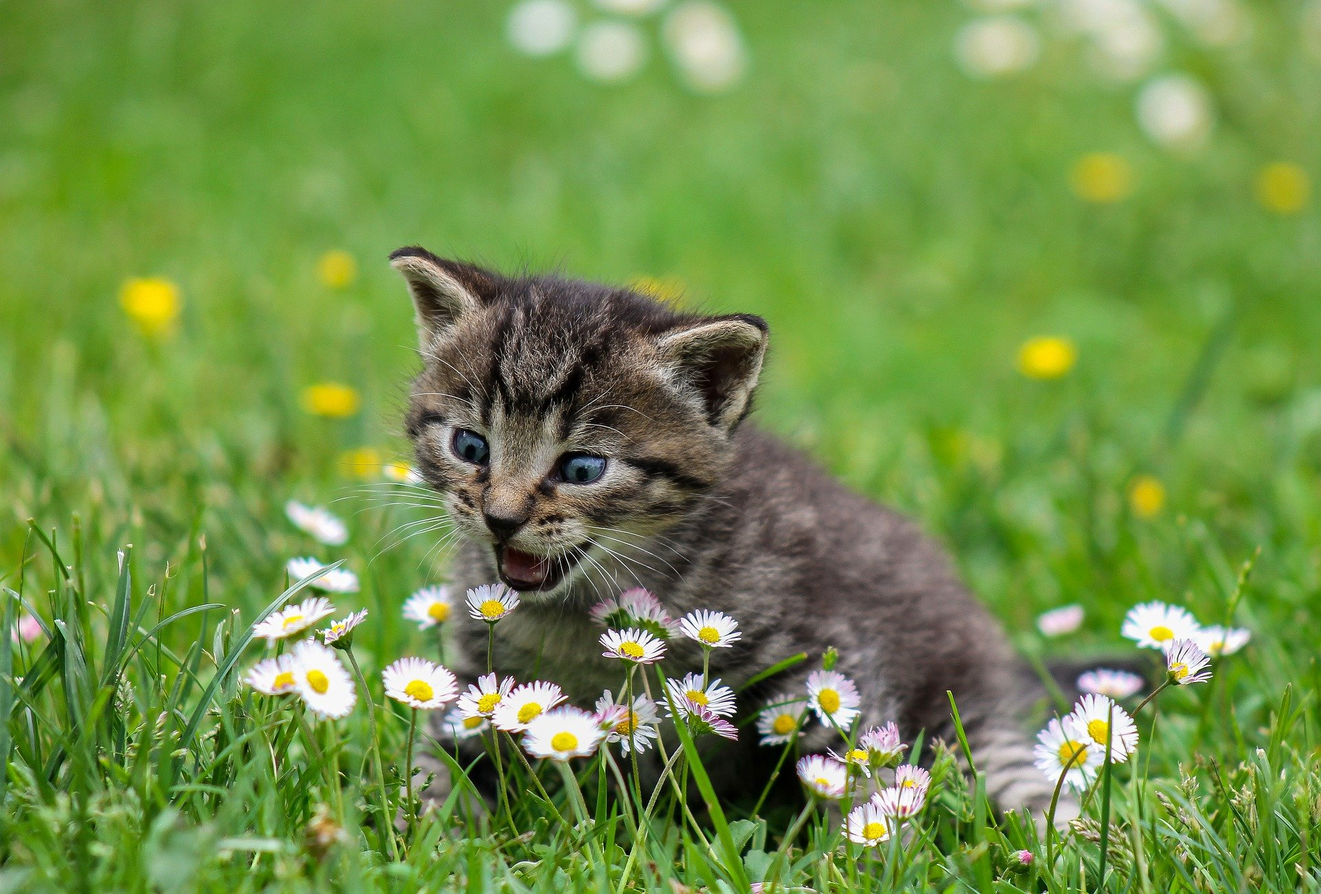
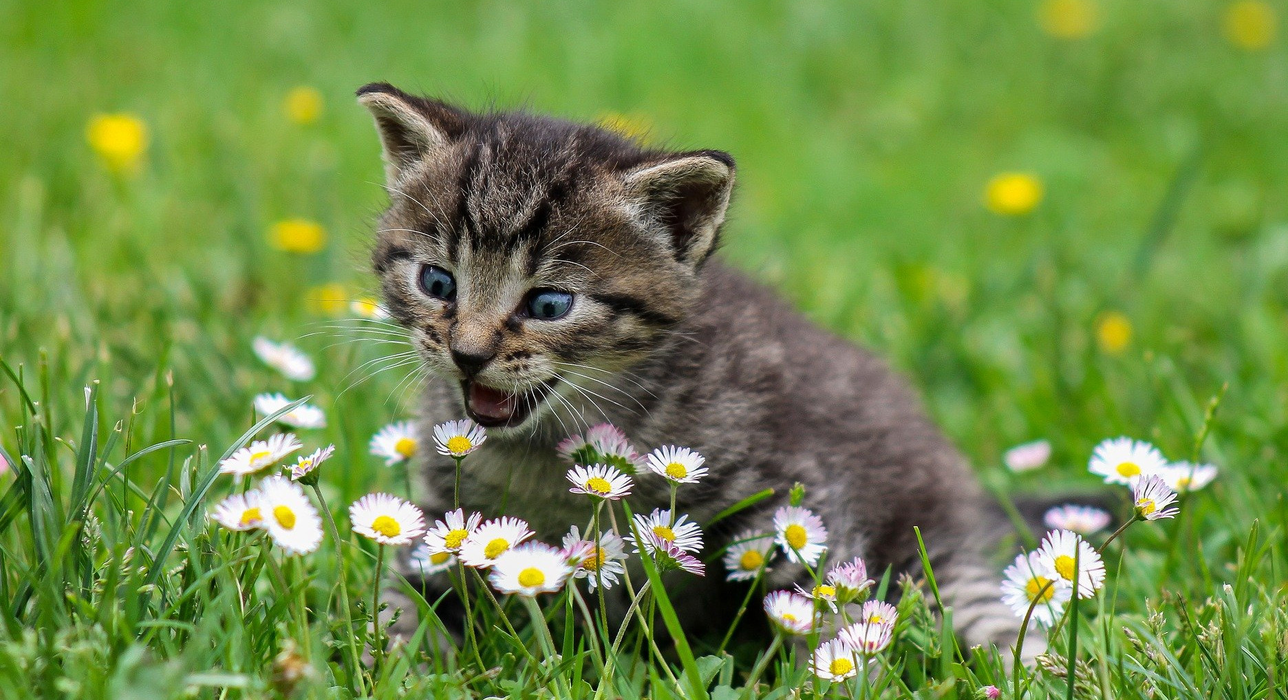
added style to header and welcome box

diff --git a/index.html b/index.html
@@ -15,29 +15,33 @@
                     <li><a>link three</a></li>
                 </ul>
         </div>
-        <div class="about">
-            <h1>Welcome to Nekatzen's art page</h1>
-            <p class="text">This website has some subtext that goes under the main title.</p>
-            <button>Sign up</button>
-            <img class="wtf" src="images/kitty.jpg" alt="Is a cat with flowers">
-        </div>
-        <div class="preview">
-            <p class="info">Here goes some random information</p>
-            <div class="images">
-                <img class="cat" src="images/surf.png" alt="This is a cat surfing">
-                <img class="cat" src="images/pool.png" alt="This is a cat playing pool">
-                <img class="cat" src="images/letter.png" alt="This is a cat sending a mail">
-                <img class="cat" src="images/drum.png" alt="This is a cat playing drums">
+        <!-- <div class="body"> -->
+            <div class="about">
+                <div class="welcome">
+                    <h1>Welcome to Nekatzen's art page</h1>
+                    <p class="text">This website has some subtext that goes under the main title.</p>
+                    <button class="top-button">Sign up</button>
+                </div>
+                <div class="box"><img class="cute" src="images/kitty.jpg" alt="Is a cat with flowers"></div>
             </div>
-        </div>
-        <div class="biography">
-            <div class="quote">Where is my food human?</div>
-            <p class="name">-Suri</p>
-        </div>
-        <div class="sign-up">
-            <div class="sign-up-text">Sign up if you want to hear all the news about my art!</div>
-            <button>Sign up</button>
-        </div>
+            <div class="preview">
+                <p class="info">Here goes some random information</p>
+                <div class="images">
+                    <img class="cat" src="images/surf.png" alt="This is a cat surfing">
+                    <img class="cat" src="images/pool.png" alt="This is a cat playing pool">
+                    <img class="cat" src="images/letter.png" alt="This is a cat sending a mail">
+                    <img class="cat" src="images/drum.png" alt="This is a cat playing drums">
+                </div>
+            </div>
+            <div class="biography">
+                <div class="quote">Where is my food human?</div>
+                <p class="name">-Suri</p>
+            </div>
+            <div class="sign-up">
+                <div class="sign-up-text">Sign up if you want to hear all the news about my art!</div>
+                <button>Sign up</button>
+            </div>
+       <!-- </div> -->
         <div class="footer">Copyright © The Odin Project 2021</div>
     </body>
 </html>

diff --git a/style.css b/style.css
@@ -1,5 +1,35 @@
 body{
     font-family: 'Roboto', sans-serif;
+    display: flex;
+    flex-direction: column;
+    margin: 0px;
+}
+
+.header,
+ul,
+.about{
+    display: flex;
+    align-items: center;
+}
+
+.header{
+    justify-content: space-between;
+    padding: 0px 160px;
+}
+
+.about{
+    padding: 50px 160px;
+}
+
+.box{
+    width: 750px;
+}
+
+.cute,
+.welcome{
+    flex:1;
+    max-width: 100%;
+    max-height: 100%;
 }
 
 .header,
@@ -8,13 +38,9 @@ body{
     background-color: #1F2937;
 }
 
-.header,
-ul{
-    display: flex;
-}
-
 ul{
     list-style-type: none;
+    gap: 18px;
 }
 
 .logo{
@@ -39,14 +65,21 @@ ul,
     font-size: 18px;
 }
 
-.wtf{
-    width: 200px;
-    height: inherit;
-}
-
 .sign-up-text,
 button{
     background-color: #3882F6;
+    color: #E5E7EB
+
+}
+
+button{
+    border-radius: 8px;
+    font-size: 18px;
+    padding: 3px 30px;
+}
+
+.top-button{
+    border: 0px;
 }
 
 .info{
